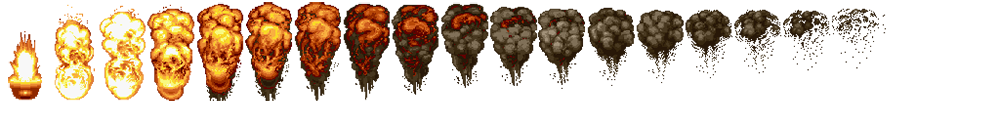
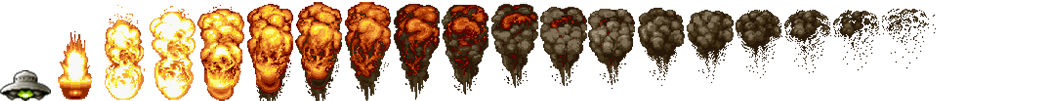
SB: added alien explode animaytion

diff --git a/postar2/www/js/app-min.js b/postar2/www/js/app-min.js
@@ -99,8 +99,7 @@ angular.module( 'app.services')
 
         //load game assets
         this.load.spritesheet('hunter', 'assets/images/astronaut.sprite.png', 50,50);
-        //this.load.spritesheet('playerScratch', 'assets/images/dog_scratch.png', 116, 100, 2);
-        //this.load.spritesheet('playerDig', 'assets/images/dog_dig.png', 129, 100, 2);
+        this.load.spritesheet('alien', 'assets/images/explode.png', 50,100);
         this.load.spritesheet('buttons', 	'assets/images/buttons.png', 32, 32);
         this.load.spritesheet('hop', 'assets/images/hop.png', 32, 32, 6);
         this.load.image('background', 'assets/images/background.png');
@@ -113,7 +112,6 @@ angular.module( 'app.services')
         this.load.image('ground', 'assets/images/ground.png');
         this.load.image('grass', 'assets/images/grass.png');
         this.load.image('castle', 'assets/images/castle.png');
-        this.load.audio('damage', ['assets/audio/whine.ogg', 'assets/audio/whine.mp3']);
 
 
         this.load.audio('blip', ['assets/audio/blip.wav']);
@@ -135,7 +133,6 @@ angular.module( 'app.services')
 
         //this.load.image('mound', 'assets/images/rock.png');
 
-        this.load.image('alien', 'assets/images/alien.png');
         this.load.image('bone', 'assets/images/toys/bone.png');
         this.load.image('ball', 'assets/images/toys/tennisball.png');
       },
@@ -1150,7 +1147,7 @@ function($scope, $http, AS, GS, TS, WS, LBS, $ionicPopup, $state , $ionicModal){
 
         //collision
         this.game.physics.arcade.collide(this.player, this.ground, this.playerHit, null, this);
-        this.game.physics.arcade.collide(this.player, this.aliens, this.playerDamage, null, this);
+        this.game.physics.arcade.collide(this.player, this.aliens, this.playerDamage, function(player, alien){ return alien.alive; }, this);
         this.game.physics.arcade.collide(this.weapon.bullets, this.aliens, this.alienKilled, null, this );
         this.game.physics.arcade.collide(this.weapon.bullets, this.ground, this.shatter, null, this );
       	this.game.physics.arcade.overlap(this.player, this.hops, this.collectHops, null, this);
@@ -1360,7 +1357,10 @@ function($scope, $http, AS, GS, TS, WS, LBS, $ionicPopup, $state , $ionicModal){
       },
       alienKilled : function(bullet, alien){
         this.explodeSound.play();
-        this.aliens.remove( alien );
+        alien.play( 'die')
+        alien.alive = false;
+        //alien.body.moves = false;
+        //this.aliens.remove( alien );
         bullet.kill();
     		this.points += 1;
     		this.refreshStats();
@@ -1584,31 +1584,26 @@ function($scope, $http, AS, GS, TS, WS, LBS, $ionicPopup, $state , $ionicModal){
         }
 
       },
+      // add the enemies
       generateAliens: function() {
         var alien;
         this.aliens = this.game.add.group();
-
-        //enable physics in them
         this.aliens.enableBody = true;
-
-        //phaser's random number generator
     	  this.numAliens += 1;
-
         for (var i = 0; i < this.numAliens; i++) {
-          //add sprite within an area excluding the beginning and ending
-          //  of the game world so items won't suddenly appear or disappear when wrapping
           var x = this.game.rnd.integerInRange(this.game.width, this.game.world.width - this.game.width);
           var y = this.game.rnd.integerInRange(this.game.height - 100, this.game.world.height - this.game.height );
-          alien = this.aliens.create(x, y, 'alien');
 
-          //physics properties
+
+
+          alien = this.aliens.create(x, y, 'alien');
+          alien.alive = true;
+    			alien.animations.add('die', null, 10);
           alien.body.velocity.x = this.game.rnd.integerInRange(-20, 0);
-          alien.scale.setTo(.5, .5);
           alien.body.immovable = true;
           alien.body.collideWorldBounds = false;
         }
       },
-
       // create weapons to collect
       generateNewWeapon: function() {
         var weapon;
@@ -1620,7 +1615,6 @@ function($scope, $http, AS, GS, TS, WS, LBS, $ionicPopup, $state , $ionicModal){
         weapon = this.weapons.create(x, y, 'pint');
         weapon.ref = weaponRef;
         weapon.body.velocity.x = this.game.rnd.integerInRange(-20, 0);
-        weapon.scale.setTo(1, 1);
         weapon.body.immovable = true;
         weapon.body.collideWorldBounds = false;
       },

diff --git a/postar2/build/js/controllers/game-controller.js b/postar2/build/js/controllers/game-controller.js
@@ -365,7 +365,7 @@ function($scope, $http, AS, GS, TS, WS, LBS, $ionicPopup, $state , $ionicModal){
 
         //collision
         this.game.physics.arcade.collide(this.player, this.ground, this.playerHit, null, this);
-        this.game.physics.arcade.collide(this.player, this.aliens, this.playerDamage, null, this);
+        this.game.physics.arcade.collide(this.player, this.aliens, this.playerDamage, function(player, alien){ return alien.alive; }, this);
         this.game.physics.arcade.collide(this.weapon.bullets, this.aliens, this.alienKilled, null, this );
         this.game.physics.arcade.collide(this.weapon.bullets, this.ground, this.shatter, null, this );
       	this.game.physics.arcade.overlap(this.player, this.hops, this.collectHops, null, this);
@@ -575,7 +575,10 @@ function($scope, $http, AS, GS, TS, WS, LBS, $ionicPopup, $state , $ionicModal){
       },
       alienKilled : function(bullet, alien){
         this.explodeSound.play();
-        this.aliens.remove( alien );
+        alien.play( 'die')
+        alien.alive = false;
+        //alien.body.moves = false;
+        //this.aliens.remove( alien );
         bullet.kill();
     		this.points += 1;
     		this.refreshStats();
@@ -799,31 +802,26 @@ function($scope, $http, AS, GS, TS, WS, LBS, $ionicPopup, $state , $ionicModal){
         }
 
       },
+      // add the enemies
       generateAliens: function() {
         var alien;
         this.aliens = this.game.add.group();
-
-        //enable physics in them
         this.aliens.enableBody = true;
-
-        //phaser's random number generator
     	  this.numAliens += 1;
-
         for (var i = 0; i < this.numAliens; i++) {
-          //add sprite within an area excluding the beginning and ending
-          //  of the game world so items won't suddenly appear or disappear when wrapping
           var x = this.game.rnd.integerInRange(this.game.width, this.game.world.width - this.game.width);
           var y = this.game.rnd.integerInRange(this.game.height - 100, this.game.world.height - this.game.height );
-          alien = this.aliens.create(x, y, 'alien');
 
-          //physics properties
+
+
+          alien = this.aliens.create(x, y, 'alien');
+          alien.alive = true;
+    			alien.animations.add('die', null, 10);
           alien.body.velocity.x = this.game.rnd.integerInRange(-20, 0);
-          alien.scale.setTo(.5, .5);
           alien.body.immovable = true;
           alien.body.collideWorldBounds = false;
         }
       },
-
       // create weapons to collect
       generateNewWeapon: function() {
         var weapon;
@@ -835,7 +833,6 @@ function($scope, $http, AS, GS, TS, WS, LBS, $ionicPopup, $state , $ionicModal){
         weapon = this.weapons.create(x, y, 'pint');
         weapon.ref = weaponRef;
         weapon.body.velocity.x = this.game.rnd.integerInRange(-20, 0);
-        weapon.scale.setTo(1, 1);
         weapon.body.immovable = true;
         weapon.body.collideWorldBounds = false;
       },

diff --git a/postar2/build/js/services/game-service.js b/postar2/build/js/services/game-service.js
@@ -29,8 +29,7 @@ angular.module( 'app.services')
 
         //load game assets
         this.load.spritesheet('hunter', 'assets/images/astronaut.sprite.png', 50,50);
-        //this.load.spritesheet('playerScratch', 'assets/images/dog_scratch.png', 116, 100, 2);
-        //this.load.spritesheet('playerDig', 'assets/images/dog_dig.png', 129, 100, 2);
+        this.load.spritesheet('alien', 'assets/images/explode.png', 50,100);
         this.load.spritesheet('buttons', 	'assets/images/buttons.png', 32, 32);
         this.load.spritesheet('hop', 'assets/images/hop.png', 32, 32, 6);
         this.load.image('background', 'assets/images/background.png');
@@ -43,7 +42,6 @@ angular.module( 'app.services')
         this.load.image('ground', 'assets/images/ground.png');
         this.load.image('grass', 'assets/images/grass.png');
         this.load.image('castle', 'assets/images/castle.png');
-        this.load.audio('damage', ['assets/audio/whine.ogg', 'assets/audio/whine.mp3']);
 
 
         this.load.audio('blip', ['assets/audio/blip.wav']);
@@ -65,7 +63,6 @@ angular.module( 'app.services')
 
         //this.load.image('mound', 'assets/images/rock.png');
 
-        this.load.image('alien', 'assets/images/alien.png');
         this.load.image('bone', 'assets/images/toys/bone.png');
         this.load.image('ball', 'assets/images/toys/tennisball.png');
       },

diff --git a/postar2/www/css/screen.css b/postar2/www/css/screen.css
@@ -209,8 +209,11 @@ body {
   width: 100vw;
   height: 100vh;
   text-align: center;
-  padding-top: 40vh;
+  padding-top: 35vh;
   color: white;
+}
+.game-over-container div {
+  padding: 8px;
 }
 #challenge {
   display: block;

diff --git a/postar2/build/less/game.less b/postar2/build/less/game.less
@@ -117,6 +117,7 @@
     width: 100vw;
     height: 100vh;
     text-align: center;
-    padding-top: 40vh;
+    padding-top: 35vh;
     color: white;
+    div{ padding:8px;}
 }
